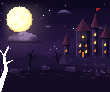
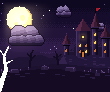
style(cosmetics): 카드 구름을 겹쌓인 뭉게+테두리로, 천둥번개는 위를 채우는 구름 천장
- 노이즈 구름은 형태가 흐물거렸다. 둥근 뭉게를 줄지어 쌓고(아랫줄이 앞), 뭉게마다 위가 밝고 아래로
  어두워지며 앞 뭉게가 다시 밝게 시작하는 음영에, 바깥 1칸 테두리와 뒤 뭉게 위에 얹힌 가는 이음선을
  더했다(heapCloud) — 두 참고 그림의 장점을 합친 것
- 슬라임·박쥐 떼는 크기를 섞어 큰 덩어리·긴 구름·작은 조각을 둔다
- 천둥번개는 구름 하나의 모양을 보여 주는 대신 카드 위를 구름이 꽉 채운다: 줄지어 쌓인 뭉게가
  카드 위로 넘어가는 한 몸이라 안쪽엔 이음선만, 테두리는 아랫면에만(cloudCeiling)

diff --git a/scripts/pixelfx/cards/_bg.js b/scripts/pixelfx/cards/_bg.js
@@ -208,4 +208,85 @@ export function softCloud(p, cx, base, w, h, seed, ramp, flat = 0) {
   }
 }
 
+/**
+ * A heaped cumulus without an outline: round billows stacked in rows (a broad bottom row, a narrower middle row,
+ * one or two crowns), so the silhouette is clean rounded steps. Each billow is bright on top and shades toward its
+ * underside, and the billow in front starts bright again — that is what makes the heap read in layers. Higher rows
+ * are a step brighter; the flat base is the darkest.
+ * ramp: shadow .. light. w wide, h tall.
+ */
+export function heapCloud(p, cx, base, w, h, seed, ramp, out = null) {
+  const K = ramp.map(hex), n = K.length, L = [];
+  // billows overlap by about half their width; each row up is narrower, a bit bigger and sits behind the one below
+  const rows = h < w * 0.22 ? 1 : h < w * 0.45 ? 2 : 3, r0 = Math.min(h * 0.55, w * 0.16) + 1;
+  for (let row = 0; row < rows; row++) {
+    const r = r0 * (1 + 0.3 * row), span = Math.max(0, w - 2 * r) * (1 - row * 0.3);
+    const count = Math.max(1, Math.round(span / (r * 1.1)) + 1);
+    for (let i = 0; i < count; i++) {
+      const u = count === 1 ? 0 : i / (count - 1) - 0.5;
+      const rr = r * (0.85 + 0.3 * rand(i + row * 10, seed)) * (1 - Math.abs(u) * 0.3);
+      L.push({ x: cx - w * 0.04 * row + u * span + (rand(i, seed + row) - 0.5) * 1.5, y: base - r0 * 0.55 - row * r0 * 0.95 - (1 - Math.abs(u) * 2) * row * 1.5, r: rr, row });
+    }
+  }
+  const x0 = Math.floor(cx - w), x1 = Math.ceil(cx + w), y0 = Math.floor(base - h * 1.6);
+  const OUT = out ? hex(out) : 0;
+  // the billow a pixel belongs to: the front-most (lower row first, then lower centre)
+  const owner = (x, y) => {
+    if (y > base) return null;
+    let o = null;
+    for (const b of L) if (Math.hypot(x + 0.5 - b.x, y + 0.5 - b.y) <= b.r && (!o || b.row < o.row || (b.row === o.row && b.y > o.y))) o = b;
+    return o;
+  };
+  for (let y = y0; y <= base + 1; y++) for (let x = x0; x <= x1; x++) {
+    const o = owner(x, y);
+    if (!o) {
+      // the outline: any empty pixel touching the cloud
+      if (OUT && (owner(x - 1, y) || owner(x + 1, y) || owner(x, y - 1) || owner(x, y + 1))) p.px(x, y, OUT);
+      continue;
+    }
+    // a thin seam where this billow's top rim sits over a billow behind it, so the layers read like the outlined style
+    const above = owner(x, y - 1);
+    if (OUT && above && above.row > o.row) { p.px(x, y, K[Math.min(1, n - 1)]); continue; }
+    const ny = (y + 0.5 - o.y) / o.r, nx = (x + 0.5 - o.x) / o.r;
+    let t = 0.55 - ny * 0.45 - nx * 0.12 + o.row * 0.12;
+    if (y >= base - 1) t -= 0.35;
+    p.px(x, y, K[Math.max(0, Math.min(n - 1, Math.floor(t * n)))]);
+  }
+}
+
+/**
+ * A ceiling of cloud filling the top of the card down to about y = belly: the sky above is covered, and only the
+ * billowy underside shows — heaped clouds side by side whose tops run off the card, outlined where they meet the sky.
+ */
+export function cloudCeiling(p, belly, seed, ramp, out) {
+  const K = ramp.map(hex), n = K.length, OUT = hex(out), L = [];
+  // billows in rows from the belly up past the top of the card; one body, so the only outline is along the belly
+  for (let row = 0; row < 4; row++) {
+    const r = 9 + row * 2, step = r * 1.5;
+    for (let i = 0, x = -r + (row % 2) * step * 0.5; x < W + r; i++, x += step) {
+      const rr = r * (0.8 + 0.4 * rand(i + row * 30, seed));
+      L.push({ x: x + (rand(i, seed + row) - 0.5) * 4, y: belly - rr * 0.55 - row * 11 + (rand(i, seed + row + 9) - 0.5) * 4, r: rr, row });
+    }
+  }
+  const owner = (x, y) => {
+    let o = null;
+    for (const b of L) if (Math.hypot(x + 0.5 - b.x, y + 0.5 - b.y) <= b.r && (!o || b.row < o.row || (b.row === o.row && b.y > o.y))) o = b;
+    if (!o && y < belly - 30) return { x, y: -99, r: 99, row: 9 }; // solid cloud above the rows
+    return o;
+  };
+  for (let y = 0; y < belly + 2; y++) for (let x = 0; x < W; x++) {
+    const o = owner(x, y);
+    if (!o) { if (owner(x, y - 1)) p.px(x, y, OUT); continue; } // outline under the belly
+    const above = owner(x, y - 1);
+    if (above && above.row > o.row && o.row < 9) { p.px(x, y, K[1]); continue; } // seam over the billow behind
+    if (o.row === 9) { p.px(x, y, K[0]); continue; }
+    // the same shading as heapCloud: each billow bright on top, darker toward its underside, the one in front
+    // starting bright again; rows further back are a step darker so the ceiling recedes
+    const ny = (y + 0.5 - o.y) / o.r, nx = (x + 0.5 - o.x) / o.r;
+    let t = 0.6 - ny * 0.45 - nx * 0.1 - o.row * 0.1;
+    if (y >= belly - 1 && o.row === 0 && ny > 0.6) t -= 0.25;
+    p.px(x, y, K[Math.max(0, Math.min(n - 1, Math.floor(t * n)))]);
+  }
+}
+
 export { mix, hex };

diff --git a/scripts/pixelfx/cards/bg-slime.js b/scripts/pixelfx/cards/bg-slime.js
@@ -1,7 +1,7 @@
 // Nexus card "통통 슬라임" backdrop: a forest clearing at sunset. A warm sky (purple to pink to gold) so the green
 // slimes stand out against it, a low sun on the left, warm-lit clouds, violet mountains, a dark pine line,
 // then the clearing: a sunlit grass rim, red spotted mushrooms, flowers, mossy stones, ferns framing the corners.
-import { sky, halo, ridge, softCloud, W } from "./_bg.js";
+import { sky, halo, ridge, heapCloud, W } from "./_bg.js";
 import { CARD } from "./_card.js";
 import { hex, rand } from "../../core/index.js";
 export const meta = { name: "Card bg: slime", desc: "Forest clearing at sunset: warm sky, mountains, pines, mushrooms, ferns.", tags: ["card", "bg"], ...CARD, duration: 0.05, loop: true, fps: 20, bg: "dark", options: { seed: 1 } };
@@ -53,13 +53,12 @@ export function draw(p) {
   p.circle(18, 44, 7, hex("#ffd27a"));
   p.circle(18, 44, 6, hex("#ffe6a8"));
   p.circle(17, 43, 4, hex("#fff6dc"));
-  // clouds lit by the low sun: rose undersides to cream crowns, in all sizes
-  const DUSK = ["#6a2c58", "#a0486a", "#d87078", "#f4a088", "#ffcfa8", "#ffe8cc"];
-  softCloud(p, 84, 30, 48, 22, 5, DUSK, 0.1);   // a big heap top right
-  softCloud(p, 20, 20, 30, 8, 3, DUSK, 0.6);    // a long one top left
-  softCloud(p, 46, 34, 14, 4, 9, DUSK, 1);      // scraps
-  softCloud(p, 8, 34, 10, 3, 11, DUSK, 1);
-  softCloud(p, 60, 10, 12, 4, 13, DUSK, 0.8);
+  // clouds lit by the low sun, in all sizes: stacked billows, a plum outline
+  const DUSK = ["#6a2c58", "#a0486a", "#d87078", "#f4a088", "#ffcfa8", "#ffe8cc"], DO = "#4a1e44";
+  heapCloud(p, 86, 32, 40, 22, 5, DUSK, DO);   // a big heap top right
+  heapCloud(p, 20, 22, 28, 9, 3, DUSK, DO);    // a long low one top left
+  heapCloud(p, 48, 36, 12, 4, 9, DUSK, DO);    // scraps
+  heapCloud(p, 60, 12, 10, 4, 13, DUSK, DO);
   // two birds far off
   for (const [x, y] of [[84, 34], [90, 38]]) { p.px(x - 1, y - 1, INK); p.px(x, y, INK); p.px(x + 1, y - 1, INK); }
 

diff --git a/scripts/pixelfx/cards/bg-storm.js b/scripts/pixelfx/cards/bg-storm.js
@@ -1,7 +1,7 @@
-// Nexus card "천둥번개" backdrop: a storm at sea. One huge storm cloud heaped up over the sea, a dark heaving sea to the
+// Nexus card "천둥번개" backdrop: a storm at sea. A ceiling of storm cloud over the sea, a dark heaving sea to the
 // horizon with whitecaps, a black cliff on the right with a lighthouse (its lamp and sweeping beam are animated in
 // card-storm), rocks and spray on the left.
-import { sky, softCloud, W } from "./_bg.js";
+import { sky, cloudCeiling, W } from "./_bg.js";
 import { CARD } from "./_card.js";
 import { hex, rand, noise } from "../../core/index.js";
 export const meta = { name: "Card bg: storm", desc: "Storm at sea: piled clouds, heaving sea, cliff with a lighthouse.", tags: ["card", "bg"], ...CARD, duration: 0.05, loop: true, fps: 20, bg: "dark", options: { seed: 1 } };
@@ -10,13 +10,9 @@ export const LIGHTHOUSE = { x: 97, top: 30 };
 
 export function draw(p) {
   sky(p, ["#080c1c", "#0c1228", "#111a36", "#172344", "#1e2c54"], 0, 58, 1, 0.55);
-  // one huge storm cloud heaping up over the sea, a lower bank behind it at the horizon (no outline: tone steps
-  // from a near-black underside to cold-lit crowns)
+  // a ceiling of storm cloud filling the top of the card; only its billowy underside shows
   const STORM = ["#070a16", "#0e1428", "#18203c", "#243256", "#34467a", "#4a5e94"];
-  const FAR = ["#0a0e1e", "#10172e", "#18213e", "#22304e"];
-  softCloud(p, 92, 48, 46, 12, 11, FAR, 0.6);
-  softCloud(p, 8, 49, 30, 8, 13, FAR, 0.8);
-  softCloud(p, 46, 46, 92, 46, 5, STORM);
+  cloudCeiling(p, 40, 5, STORM, "#020409");
 
   // the sea from the horizon down: rows darker toward the viewer, swells and whitecaps
   const HZ = 52;

diff --git a/scripts/pixelfx/cards/bg-bats.js b/scripts/pixelfx/cards/bg-bats.js
@@ -1,7 +1,7 @@
 // Nexus card "박쥐 떼" backdrop: a purple night over a vampire's castle. A huge full moon top left with moonlit violet
 // clouds, violet peaks, the castle big on a crag on the right (towers, pointed roofs, a flag, warm
 // lit windows), a rocky moor in layers with dead trees, and a gnarled branch reaching in from the bottom left.
-import { sky, halo, ridge, stars, moon, softCloud, W } from "./_bg.js";
+import { sky, halo, ridge, stars, moon, heapCloud, W } from "./_bg.js";
 import { CARD } from "./_card.js";
 import { hex, rand } from "../../core/index.js";
 export const meta = { name: "Card bg: bats", desc: "Purple night, full moon, castle on a crag, rocky moor, dead trees.", tags: ["card", "bg"], ...CARD, duration: 0.05, loop: true, fps: 20, bg: "dark", options: { seed: 1 } };
@@ -68,11 +68,10 @@ export function draw(p) {
   moon(p, 20, 20, 13);
 
   // moonlit clouds, dim violet, in all sizes: a bank across the moon's foot, scraps higher up
-  const NIGHT = ["#1c1230", "#2a1c42", "#3c2a58", "#54406e", "#6e5a8c"];
-  softCloud(p, 24, 42, 38, 12, 3, NIGHT, 0.5);
-  softCloud(p, 64, 14, 18, 5, 7, NIGHT, 0.8);
-  softCloud(p, 48, 28, 10, 3, 13, NIGHT, 1);
-  softCloud(p, 100, 30, 14, 4, 17, NIGHT, 0.9);
+  const NIGHT = ["#1c1230", "#2a1c42", "#3c2a58", "#54406e", "#6e5a8c", "#8a78a8"], NO = "#100820";
+  heapCloud(p, 26, 44, 36, 12, 3, NIGHT, NO);
+  heapCloud(p, 64, 16, 16, 6, 7, NIGHT, NO);
+  heapCloud(p, 100, 30, 12, 4, 17, NIGHT, NO);
   // violet peaks, then the crag the castle stands on
   ridge(p, 54, 10, 16, 4, "#2a1a42");
   ridge(p, 60, 6, 10, 8, "#1f1434");
